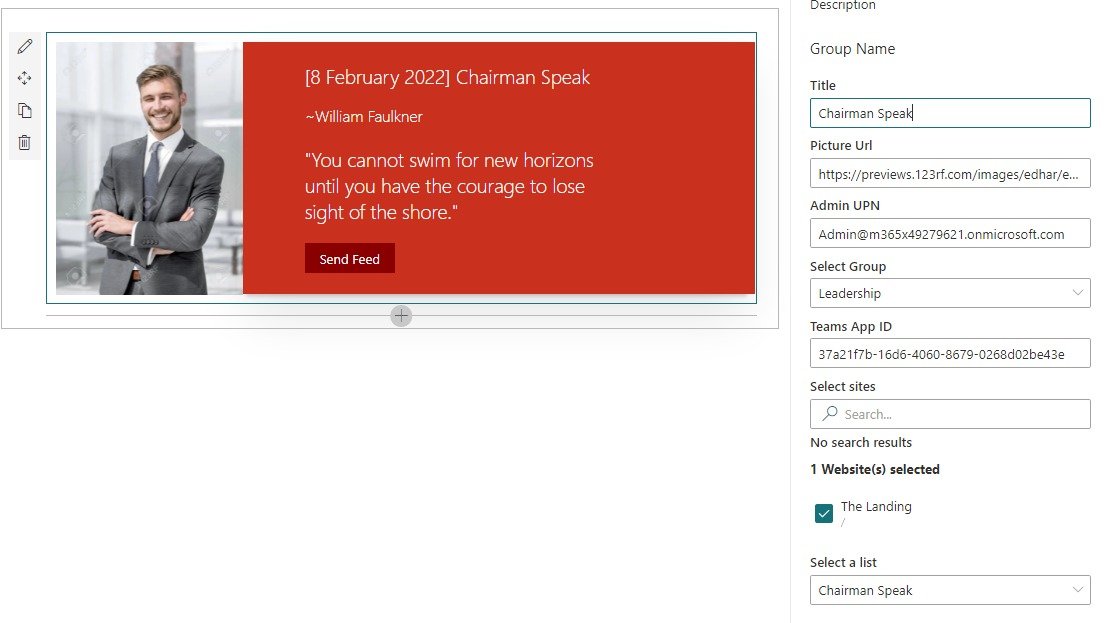
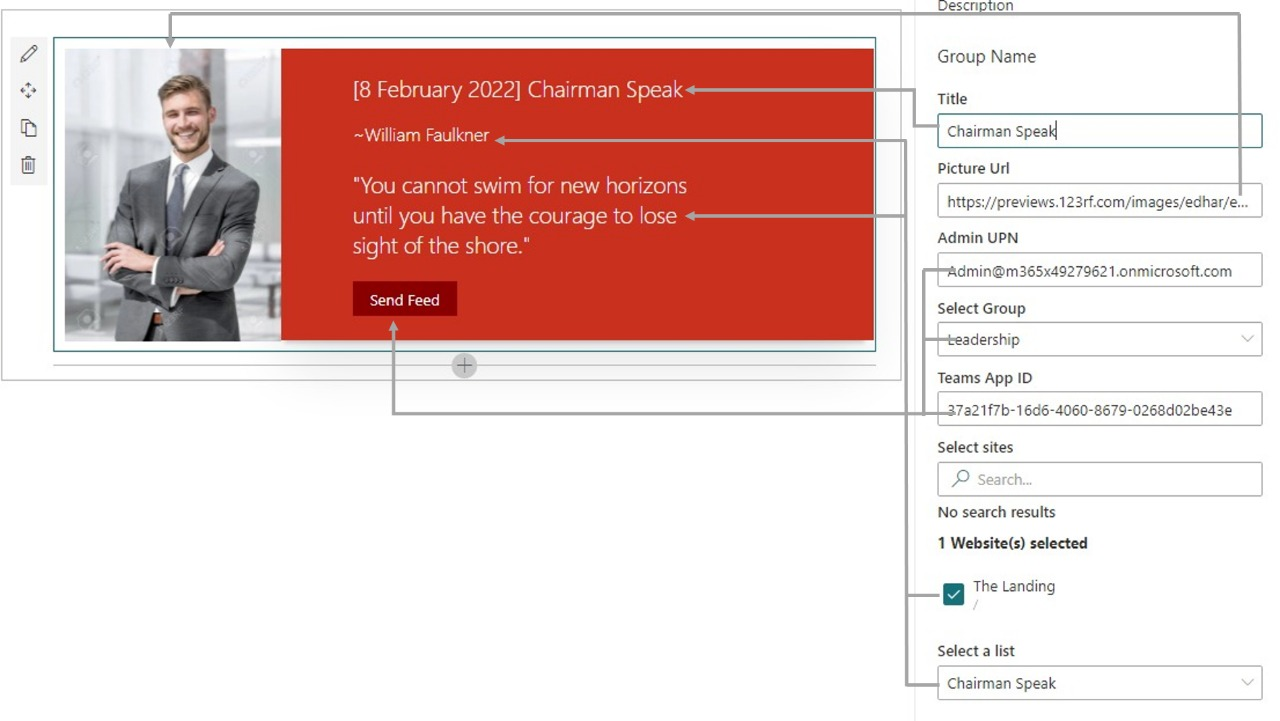
modified overview and anatomy

diff --git a/README.md b/README.md
@@ -4,8 +4,6 @@
 
 The webpart leverages the tight integration between SharePoint Online and Microsoft Teams to support scenarios like daily updates, announcements, relevant news, thought of the day, corporate communication etc.
 
-<p> <img src="screenshots/webpart overview.jpeg"/>
-
 ## Prerequisites 
 
 To begin, you will need:
@@ -15,7 +13,11 @@ To begin, you will need:
 
 ## Deployment Guide
 
-This guide explains the deployment of SPFx Updates Webpart using an example wherein webpart is hosted in the Viva Connections page. Before we get into detailed steps of deployment, let us understand **anatomy of webpart** with the help of following figure.
+This guide explains the deployment of SPFx Updates Webpart using an example wherein webpart is hosted in the Viva Connections page. An overview snapshot of the **SPFx Updates Webpart** highlighting its major sections is shown in the below figure. 
+
+<p> <img src="screenshots/webpart overview.jpeg"/>
+
+Let us dive into few details to understand configuration of this webpart and how it controls the content being shown in various sections of the webpart with the help of following figure.
 
 <p> <img src="screenshots/webpart anatomy.jpeg"/>
 
